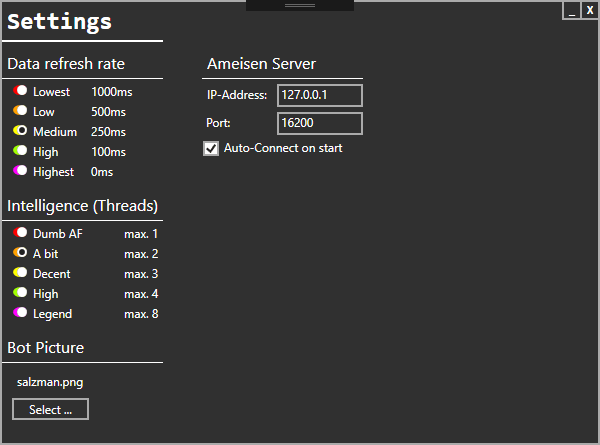
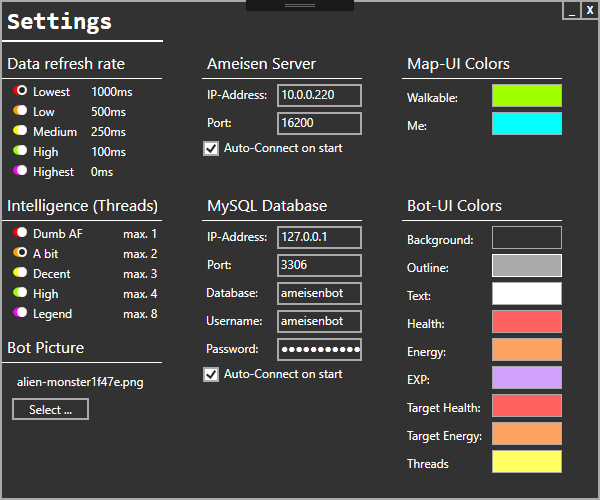
small adjustments, new images

diff --git a/AmeisenBotGUI/BotWindow.xaml b/AmeisenBotGUI/BotWindow.xaml
@@ -224,7 +224,7 @@
                 <SolidColorBrush Color="{DynamicResource TextColor}" />
             </Label.Foreground>
         </Label>
-        <Label x:Name="labelLoadedCombatClass" Content="CombatClass: " HorizontalAlignment="Left" Margin="314,150,0,0" FontSize="10" Width="155" Height="26" VerticalAlignment="Top">
+        <Label x:Name="labelLoadedCombatClass" Content="CombatClass: " HorizontalAlignment="Left" Margin="314,148,0,0" FontSize="9" Width="155" Height="26" VerticalAlignment="Top">
             <Label.Foreground>
                 <SolidColorBrush Color="{DynamicResource TextColor}" />
             </Label.Foreground>
@@ -256,46 +256,46 @@
                 <SolidColorBrush Color="{DynamicResource TextColor}" />
             </Button.Foreground>
         </Button>
-        <Image x:Name="botPicture" HorizontalAlignment="Left" Height="150" VerticalAlignment="Top" Width="150" Margin="6,6,0,0" />
+        <Image x:Name="botPicture" HorizontalAlignment="Left" Height="137" VerticalAlignment="Top" Width="137" Margin="6,6,0,0" />
         <Slider x:Name="sliderDistance" HorizontalAlignment="Left" Margin="179,150,0,0" VerticalAlignment="Top" Width="120" Minimum="3" Maximum="12" Value="2" ValueChanged="SliderDistance_ValueChanged">
             <Slider.BorderBrush>
-                <SolidColorBrush Color="{DynamicResource AccentColor}"/>
+                <SolidColorBrush Color="{DynamicResource AccentColor}" />
             </Slider.BorderBrush>
             <Slider.Background>
-                <SolidColorBrush Color="{DynamicResource BackgroundColor}"/>
+                <SolidColorBrush Color="{DynamicResource BackgroundColor}" />
             </Slider.Background>
             <Slider.Foreground>
-                <SolidColorBrush Color="{DynamicResource BackgroundColor}"/>
+                <SolidColorBrush Color="{DynamicResource BackgroundColor}" />
             </Slider.Foreground>
         </Slider>
         <Label x:Name="labelDistance" Content="Follow Distance: 3m" HorizontalAlignment="Left" Margin="174,126,0,0" VerticalAlignment="Top" Width="140">
             <Label.Foreground>
-                <SolidColorBrush Color="{DynamicResource TextColor}"/>
+                <SolidColorBrush Color="{DynamicResource TextColor}" />
             </Label.Foreground>
         </Label>
         <Label x:Name="labelHP" Content="" HorizontalAlignment="Left" Margin="8,179,0,0" VerticalAlignment="Top">
             <Label.Foreground>
-                <SolidColorBrush Color="{DynamicResource TextColor}"/>
+                <SolidColorBrush Color="{DynamicResource TextColor}" />
             </Label.Foreground>
         </Label>
         <Label x:Name="labelEnergy" Content="" HorizontalAlignment="Left" Margin="8,199,0,0" VerticalAlignment="Top">
             <Label.Foreground>
-                <SolidColorBrush Color="{DynamicResource TextColor}"/>
+                <SolidColorBrush Color="{DynamicResource TextColor}" />
             </Label.Foreground>
         </Label>
         <Label x:Name="labelExp" Content="" HorizontalAlignment="Left" Margin="8,220,0,0" VerticalAlignment="Top">
             <Label.Foreground>
-                <SolidColorBrush Color="{DynamicResource TextColor}"/>
+                <SolidColorBrush Color="{DynamicResource TextColor}" />
             </Label.Foreground>
         </Label>
         <Label x:Name="labelTargetHP" Content="" HorizontalAlignment="Left" Margin="224,178,0,0" VerticalAlignment="Top">
             <Label.Foreground>
-                <SolidColorBrush Color="{DynamicResource TextColor}"/>
+                <SolidColorBrush Color="{DynamicResource TextColor}" />
             </Label.Foreground>
         </Label>
         <Label x:Name="labelTargetEnergy" Content="" HorizontalAlignment="Left" Margin="224,199,0,0" VerticalAlignment="Top">
             <Label.Foreground>
-                <SolidColorBrush Color="{DynamicResource TextColor}"/>
+                <SolidColorBrush Color="{DynamicResource TextColor}" />
             </Label.Foreground>
         </Label>
     </Grid>

diff --git a/AmeisenBotGUI/App.xaml b/AmeisenBotGUI/App.xaml
@@ -4,7 +4,6 @@
              xmlns:local="clr-namespace:AmeisenBotGUI"
              StartupUri="SelectWindow.xaml">
     <Application.Resources>
-
         <Color x:Key="AccentColor">#FFAAAAAA</Color>
         <Color x:Key="BackgroundColor">#FF323232</Color>
         <Color x:Key="TextColor">#FFFFFFFF</Color>

diff --git a/AmeisenBotGUI/BotWindow.xaml.cs b/AmeisenBotGUI/BotWindow.xaml.cs
@@ -1,5 +1,4 @@
-using AmeisenData;
-using AmeisenLogging;
+using AmeisenLogging;
 using AmeisenManager;
 using AmeisenUtilities;
 using Microsoft.Win32;
@@ -7,6 +6,7 @@ using System;
 using System.IO;
 using System.Windows;
 using System.Windows.Input;
+using System.Windows.Media;
 using System.Windows.Media.Imaging;
 using System.Windows.Threading;
 
@@ -24,12 +24,32 @@ namespace AmeisenBotGUI
 
             // Load Settings
             BotManager.LoadSettingsFromFile(wowExe.characterName);
+            ApplyConfigColors();
             BotManager.StartBot(wowExe);
         }
 
         private string lastImgPath;
+
         private DispatcherTimer uiUpdateTimer;
+
         private AmeisenBotManager BotManager { get; }
+
+        private void ApplyConfigColors()
+        {
+            Application.Current.Resources["AccentColor"] = (Color)ColorConverter.ConvertFromString(BotManager.Settings.accentColor);
+            Application.Current.Resources["BackgroundColor"] = (Color)ColorConverter.ConvertFromString(BotManager.Settings.backgroundColor);
+            Application.Current.Resources["TextColor"] = (Color)ColorConverter.ConvertFromString(BotManager.Settings.textColor);
+
+            Application.Current.Resources["MeNodeColor"] = (Color)ColorConverter.ConvertFromString(BotManager.Settings.meNodeColor);
+            Application.Current.Resources["WalkableNodeColor"] = (Color)ColorConverter.ConvertFromString(BotManager.Settings.walkableNodeColor);
+
+            Application.Current.Resources["healthColor"] = (Color)ColorConverter.ConvertFromString(BotManager.Settings.healthColor);
+            Application.Current.Resources["energyColor"] = (Color)ColorConverter.ConvertFromString(BotManager.Settings.energyColor);
+            Application.Current.Resources["expColor"] = (Color)ColorConverter.ConvertFromString(BotManager.Settings.expColor);
+            Application.Current.Resources["targetHealthColor"] = (Color)ColorConverter.ConvertFromString(BotManager.Settings.targetHealthColor);
+            Application.Current.Resources["targetEnergyColor"] = (Color)ColorConverter.ConvertFromString(BotManager.Settings.targetEnergyColor);
+            Application.Current.Resources["threadsColor"] = (Color)ColorConverter.ConvertFromString(BotManager.Settings.threadsColor);
+        }
 
         private void ButtonCobatClassEditor_Click(object sender, RoutedEventArgs e)
         {
@@ -175,6 +195,16 @@ namespace AmeisenBotGUI
 
         // -- UI Stuff Update the GUI
 
+        private void SliderDistance_ValueChanged(object sender, RoutedPropertyChangedEventArgs<double> e)
+        {
+            try
+            {
+                labelDistance.Content = "Follow Distance: " + Math.Round(sliderDistance.Value, 2) + "m";
+                BotManager.AmeisenSettings.Settings.followDistance = Math.Round(sliderDistance.Value, 2);
+            }
+            catch { }
+        }
+
         private void UIUpdateTimer_Tick(object sender, EventArgs e)
         {
             if (BotManager.IsBotIngame())
@@ -270,16 +300,6 @@ namespace AmeisenBotGUI
             {
                 AmeisenLogger.Instance.Log(LogLevel.ERROR, e.ToString(), this);
             }
-        }
-
-        private void SliderDistance_ValueChanged(object sender, RoutedPropertyChangedEventArgs<double> e)
-        {
-            try
-            {
-                labelDistance.Content = "Follow Distance: " + Math.Round(sliderDistance.Value, 2) + "m";
-                BotManager.AmeisenSettings.Settings.followDistance = Math.Round(sliderDistance.Value, 2);
-            }
-            catch { }
         }
     }
 }

diff --git a/AmeisenBotGUI/SelectWindow.xaml.cs b/AmeisenBotGUI/SelectWindow.xaml.cs
@@ -7,7 +7,6 @@ using System.IO;
 using System.Text.RegularExpressions;
 using System.Windows;
 using System.Windows.Input;
-using System.Windows.Media;
 
 namespace AmeisenBotGUI
 {
@@ -37,23 +36,6 @@ namespace AmeisenBotGUI
         private bool autologinIsPossible = false;
         private AmeisenBotManager BotManager { get; }
 
-        private void ApplyConfigColors()
-        {
-            Application.Current.Resources["AccentColor"] = (Color)ColorConverter.ConvertFromString(BotManager.Settings.accentColor);
-            Application.Current.Resources["BackgroundColor"] = (Color)ColorConverter.ConvertFromString(BotManager.Settings.backgroundColor);
-            Application.Current.Resources["TextColor"] = (Color)ColorConverter.ConvertFromString(BotManager.Settings.fontColor);
-
-            Application.Current.Resources["MeNodeColor"] = (Color)ColorConverter.ConvertFromString(BotManager.Settings.meNodeColor);
-            Application.Current.Resources["WalkableNodeColor"] = (Color)ColorConverter.ConvertFromString(BotManager.Settings.walkableNodeColor);
-
-            Application.Current.Resources["healthColor"] = (Color)ColorConverter.ConvertFromString(BotManager.Settings.healthColor);
-            Application.Current.Resources["energyColor"] = (Color)ColorConverter.ConvertFromString(BotManager.Settings.energyColor);
-            Application.Current.Resources["expColor"] = (Color)ColorConverter.ConvertFromString(BotManager.Settings.expColor);
-            Application.Current.Resources["targetHealthColor"] = (Color)ColorConverter.ConvertFromString(BotManager.Settings.targetHealthColor);
-            Application.Current.Resources["targetEnergyColor"] = (Color)ColorConverter.ConvertFromString(BotManager.Settings.targetEnergyColor);
-            Application.Current.Resources["threadsColor"] = (Color)ColorConverter.ConvertFromString(BotManager.Settings.threadsColor);
-        }
-
         private void ButtonExit_Click(object sender, RoutedEventArgs e)
         {
             Close();
@@ -69,8 +51,6 @@ namespace AmeisenBotGUI
                 else
                 {
                     AmeisenLogger.Instance.Log(LogLevel.DEBUG, "Selected WoW: " + ((WoWExe)comboBoxWoWs.SelectedItem).ToString(), this);
-
-                    ApplyConfigColors();
 
                     // Show the Mainscreen
                     new BotWindow((WoWExe)comboBoxWoWs.SelectedItem).Show();

diff --git a/AmeisenUtilities/Objects/Settings.cs b/AmeisenUtilities/Objects/Settings.cs
@@ -9,7 +9,7 @@
         public string ameisenServerIP = "127.0.0.1";
         public string ameisenServerName = Utils.GenerateRandonString(12, "ABCDEFGHIJKLMNOPQRSTUVWXYZ1234567890");
         public int ameisenServerPort = 16200;
-        public string backgroundColor = "#FF303030";
+        public string backgroundColor = "#FF323232";
         public bool behaviourAttack = false;
         public bool behaviourHeal = false;
         public bool behaviourTank = false;
@@ -24,8 +24,9 @@
         public int dataRefreshRate = 250;
         public string energyColor = "#FFFFA160";
         public string expColor = "#FFD4A0FF";
+        public double followDistance = 3.0;
         public bool followMaster = false;
-        public string fontColor = "#FFFFFFFF";
+        public string textColor = "#FFFFFFFF";
         public string healthColor = "#FFFF6060";
         public string masterName = "";
         public string meNodeColor = "#FF00FFFF";
@@ -35,6 +36,5 @@
         public string targetHealthColor = "#FFFF6060";
         public string threadsColor = "#FFFFFF60";
         public string walkableNodeColor = "#FFA0FF00";
-        public double followDistance = 3.0;
     }
 }

diff --git a/AmeisenBotGUI/SettingsWindow.xaml.cs b/AmeisenBotGUI/SettingsWindow.xaml.cs
@@ -127,9 +127,9 @@ namespace AmeisenBotGUI
             BotManager.Settings.databasePasswort = textboxDBPassword.Password;
             BotManager.Settings.databaseAutoConnect = (bool)checkboxDBAutoConnect.IsChecked;
 
-            BotManager.Settings.backgroundColor = ((Color)Application.Current.Resources["AccentColor"]).ToString();
-            BotManager.Settings.accentColor = ((Color)Application.Current.Resources["BackgroundColor"]).ToString();
-            BotManager.Settings.fontColor = ((Color)Application.Current.Resources["TextColor"]).ToString();
+            BotManager.Settings.accentColor = ((Color)Application.Current.Resources["AccentColor"]).ToString();
+            BotManager.Settings.backgroundColor = ((Color)Application.Current.Resources["BackgroundColor"]).ToString();
+            BotManager.Settings.textColor = ((Color)Application.Current.Resources["TextColor"]).ToString();
             BotManager.Settings.walkableNodeColor = ((Color)Application.Current.Resources["WalkableNodeColor"]).ToString();
             BotManager.Settings.meNodeColor = ((Color)Application.Current.Resources["MeNodeColor"]).ToString();
 

diff --git a/AmeisenBotGUI/Properties/AssemblyInfo.cs b/AmeisenBotGUI/Properties/AssemblyInfo.cs
@@ -43,7 +43,7 @@ using System.Windows;
 //
 // Sie können alle Werte angeben oder Standardwerte für die Build- und Revisionsnummern verwenden,
 // übernehmen, indem Sie "*" eingeben: [assembly: AssemblyVersion("1.0.*")]
-[assembly: AssemblyVersion("1.2.6819.32969")]
-[assembly: AssemblyFileVersion("1.2.6819.32969")]
+[assembly: AssemblyVersion("1.2.6819.34649")]
+[assembly: AssemblyFileVersion("1.2.6819.34649")]
 [assembly: NeutralResourcesLanguage("en")]
-[assembly: AssemblyInformationalVersion("1.2.6819.32969")]
+[assembly: AssemblyInformationalVersion("1.2.6819.34649")]

diff --git a/AmeisenAI/Properties/AssemblyInfo.cs b/AmeisenAI/Properties/AssemblyInfo.cs
@@ -26,6 +26,6 @@ using System.Runtime.InteropServices;
 //
 // Sie können alle Werte angeben oder Standardwerte für die Build- und Revisionsnummern verwenden,
 // indem Sie "*" wie unten gezeigt eingeben: [assembly: AssemblyVersion("1.0.*")]
-[assembly: AssemblyVersion("1.2.6819.31651")]
-[assembly: AssemblyFileVersion("1.2.6819.31651")]
+[assembly: AssemblyVersion("1.2.6819.33584")]
+[assembly: AssemblyFileVersion("1.2.6819.33584")]
 [assembly: AssemblyInformationalVersion("1.2.6819")]

diff --git a/AmeisenCore/Properties/AssemblyInfo.cs b/AmeisenCore/Properties/AssemblyInfo.cs
@@ -26,6 +26,6 @@ using System.Runtime.InteropServices;
 //
 // Sie können alle Werte angeben oder Standardwerte für die Build- und Revisionsnummern verwenden,
 // indem Sie "*" wie unten gezeigt eingeben: [assembly: AssemblyVersion("1.0.*")]
-[assembly: AssemblyVersion("1.2.6819.31651")]
-[assembly: AssemblyFileVersion("1.2.6819.31651")]
+[assembly: AssemblyVersion("1.2.6819.33584")]
+[assembly: AssemblyFileVersion("1.2.6819.33584")]
 [assembly: AssemblyInformationalVersion("1.2.6819")]

diff --git a/AmeisenData/Properties/AssemblyInfo.cs b/AmeisenData/Properties/AssemblyInfo.cs
@@ -26,6 +26,6 @@ using System.Runtime.InteropServices;
 //
 // Sie können alle Werte angeben oder Standardwerte für die Build- und Revisionsnummern verwenden,
 // indem Sie "*" wie unten gezeigt eingeben: [assembly: AssemblyVersion("1.0.*")]
-[assembly: AssemblyVersion("1.2.6819.31651")]
-[assembly: AssemblyFileVersion("1.2.6819.31651")]
+[assembly: AssemblyVersion("1.2.6819.33584")]
+[assembly: AssemblyFileVersion("1.2.6819.33584")]
 [assembly: AssemblyInformationalVersion("1.2.6819")]

diff --git a/AmeisenLogger/Properties/AssemblyInfo.cs b/AmeisenLogger/Properties/AssemblyInfo.cs
@@ -26,6 +26,6 @@ using System.Runtime.InteropServices;
 //
 // Sie können alle Werte angeben oder Standardwerte für die Build- und Revisionsnummern verwenden,
 // indem Sie "*" wie unten gezeigt eingeben: [assembly: AssemblyVersion("1.0.*")]
-[assembly: AssemblyVersion("1.1.6819.31651")]
-[assembly: AssemblyFileVersion("1.1.6819.31651")]
+[assembly: AssemblyVersion("1.1.6819.33584")]
+[assembly: AssemblyFileVersion("1.1.6819.33584")]
 [assembly: AssemblyInformationalVersion("1.1.6819")]

diff --git a/AmeisenManager/Properties/AssemblyInfo.cs b/AmeisenManager/Properties/AssemblyInfo.cs
@@ -26,6 +26,6 @@ using System.Runtime.InteropServices;
 //
 // Sie können alle Werte angeben oder Standardwerte für die Build- und Revisionsnummern verwenden,
 // indem Sie "*" wie unten gezeigt eingeben: [assembly: AssemblyVersion("1.0.*")]
-[assembly: AssemblyVersion("1.2.6819.31651")]
-[assembly: AssemblyFileVersion("1.2.6819.31651")]
+[assembly: AssemblyVersion("1.2.6819.33584")]
+[assembly: AssemblyFileVersion("1.2.6819.33584")]
 [assembly: AssemblyInformationalVersion("1.2.6819")]
